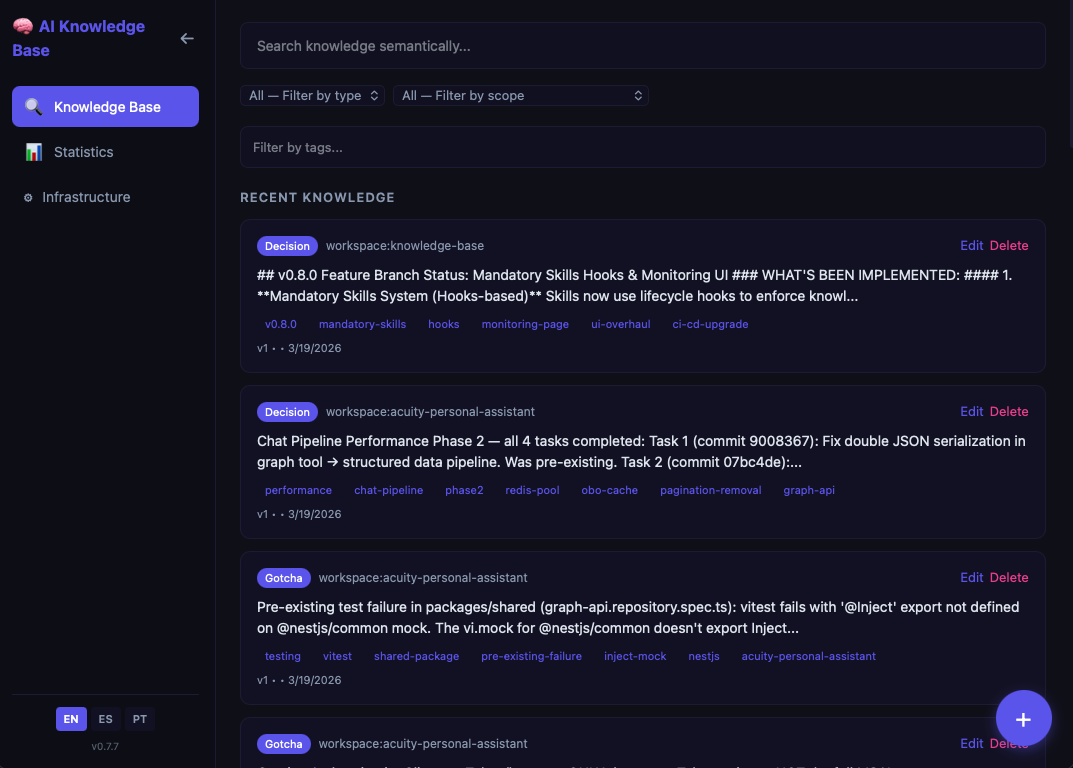
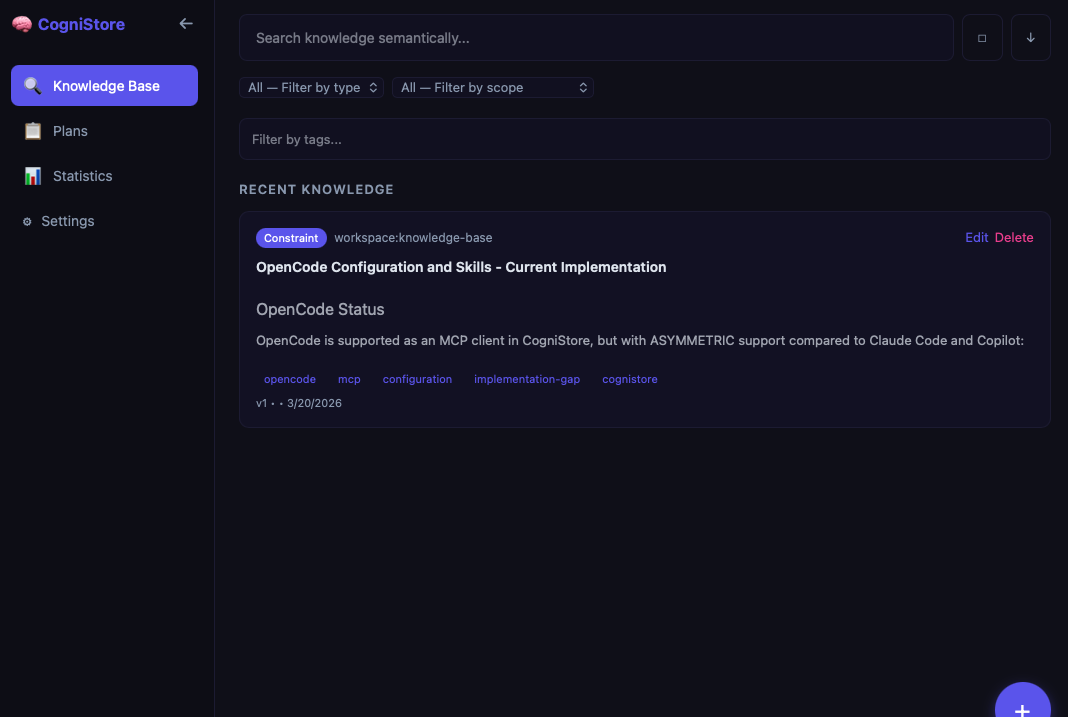
fix: v0.9.12 — full lifecycle plan tracking + OpenCode AGENTS.md (#36)
* fix: v0.9.12 — full lifecycle plan tracking + OpenCode AGENTS.md support

- Skills/hooks now cover entire plan lifecycle (creation + execution tracking),
  not just plan mode events
- OpenCode: new AGENTS.md instruction template with setup/upgrade/uninstall symmetry
- Hook messages shortened to reduce hook fatigue and include execution tracking reminders
- user-prompt-check.sh updated for both Claude Code and Copilot with consistent language
- copilot-instructions.md updated with plan execution tracking emphasis
- Bumped version to 0.9.12

* update screenshot

---------

diff --git a/apps/dashboard/server/index.ts b/apps/dashboard/server/index.ts
@@ -464,6 +464,14 @@ async function start() {
         }
       } catch (e) { console.warn('[CogniStore] Copilot inject error:', e); results.push('Copilot config error'); }
 
+      try {
+        const opencodeTemplatePath = resolve(configTemplateDir, 'opencode-instructions.md');
+        if (existsSync(opencodeTemplatePath)) {
+          await configManager.injectConfig(ConfigManager.OPENCODE_AGENTS_MD, opencodeTemplatePath, 'OpenCode');
+          results.push('OpenCode AGENTS.md injected');
+        }
+      } catch (e) { console.warn('[CogniStore] OpenCode inject error:', e); results.push('OpenCode config error'); }
+
       // Setup MCP configs
       const mcpEntry = {
         type: 'stdio',
@@ -607,6 +615,16 @@ async function start() {
       results.push({ step: 'instructions-copilot', status: 'error', message: e.message });
     }
 
+    try {
+      const opencodeT = resolve(configTemplateDir, 'opencode-instructions.md');
+      if (existsSync(opencodeT)) {
+        await configManager.injectConfig(ConfigManager.OPENCODE_AGENTS_MD, opencodeT, 'OpenCode');
+        results.push({ step: 'instructions-opencode', status: 'success' });
+      }
+    } catch (e: any) {
+      results.push({ step: 'instructions-opencode', status: 'error', message: e.message });
+    }
+
     // Step 3: Re-setup MCP configs
     try {
       const mcpEntry = {
@@ -713,6 +731,12 @@ async function start() {
       results.push({ step: 'instructions-copilot', status: 'success' });
     } catch (e: any) { results.push({ step: 'instructions-copilot', status: 'error', message: e.message }); }
 
+    try {
+      const opencodeTemplate = resolve(configTemplateDir, 'opencode-instructions.md');
+      if (existsSync(opencodeTemplate)) await configManager.injectConfig(ConfigManager.OPENCODE_AGENTS_MD, opencodeTemplate, 'OpenCode');
+      results.push({ step: 'instructions-opencode', status: 'success' });
+    } catch (e: any) { results.push({ step: 'instructions-opencode', status: 'error', message: e.message }); }
+
     // 2. Re-setup MCP configs
     try {
       const mcpEntry = {
@@ -790,6 +814,7 @@ async function start() {
       await step('CLAUDE.md cleaned', () => configManager.removeConfig(ConfigManager.CLAUDE_MD), results, errors);
       await step('Copilot config cleaned', () => configManager.removeConfig(ConfigManager.COPILOT_MD), results, errors);
       await step('Copilot CLI cleaned', () => configManager.removeConfig(ConfigManager.COPILOT_INSTRUCTIONS), results, errors);
+      await step('OpenCode AGENTS.md cleaned', () => configManager.removeConfig(ConfigManager.OPENCODE_AGENTS_MD), results, errors);
 
       // 2. Remove MCP entries
       await step('MCP config cleaned', () => configManager.removeMcpEntry(ConfigManager.MCP_CONFIG, 'cognistore'), results, errors);

diff --git a/packages/config/src/config-manager.ts b/packages/config/src/config-manager.ts
@@ -62,6 +62,12 @@ export class ConfigManager {
     'opencode',
     'opencode.json'
   );
+  static readonly OPENCODE_AGENTS_MD = join(
+    homedir(),
+    '.config',
+    'opencode',
+    'AGENTS.md'
+  );
 
   /**
    * Inject template content into a target file using markers.

diff --git a/PATCH-NOTES.md b/PATCH-NOTES.md
@@ -1,14 +1,23 @@
 # Patch Notes
 
-## v0.9.11
+## v0.9.12
+
+### Features
+- **OpenCode AGENTS.md instructions**: new instruction template injected into `~/.config/opencode/AGENTS.md` during setup — OpenCode now gets the same knowledge-first protocol as Claude Code and Copilot (query → plan → track → capture)
+- **OpenCode setup/upgrade/uninstall symmetry**: AGENTS.md is injected on setup, re-injected on upgrade/redeploy, and cleaned up on uninstall
 
 ### Fixes
+- **Skill/hook rewrite — full lifecycle coverage**: skills and hooks now cover the entire plan lifecycle (creation + execution tracking), not just plan mode events. Previously hooks only fired on EnterPlanMode/ExitPlanMode, missing execution-phase tracking entirely
 - **Claude Code plan mode compatibility**: `pre-plan-file-check.sh` now detects `.claude/plans/` directory paths (plan mode generates random slugs like `sorted-jumping-whistle.md` that the previous filename-only check missed)
 - **Claude Code SKILL.md conflict**: changed approach from "NEVER write local files" to "write local AND ALSO call createPlan()" — works WITH plan mode instead of against it, resolving instruction priority conflict where system-level plan mode instructions overrode skill-level instructions
 - **Claude Code `post-plan-check.sh`**: shortened verbose 8-line message to 1 direct instruction — reduces likelihood of model ignoring the hook after "finishing" planning
-- **Copilot execution tracking**: restructured SKILL.md with Two-Phase Workflow (Planning + Execution) at the top, added execution tracking callout in blockquote, added task tracking reference table
-- **Copilot hook fatigue**: shortened `post-plan-check.sh` and `pre-enter-plan-check.sh` messages (these fire on ALL tool uses without matchers); `post-plan-check` now includes execution tracking reminder instead of only planning reminder
-- **`claude-code-instructions.md` template**: updated to match new "write local AND ALSO createPlan()" language
+- **Copilot execution tracking**: restructured SKILL.md with Two-Phase Workflow (Planning + Execution) at the top, added execution tracking callout and task tracking reference table
+- **Copilot hook fatigue**: shortened hook messages; `post-plan-check` now includes execution tracking reminder instead of only planning reminder
+- **`user-prompt-check.sh` (both agents)**: updated to include execution tracking reminders on every user message, not just plan creation
+- **Instruction templates**: claude-code-instructions.md and copilot-instructions.md updated with consistent plan tracking language
+- **Renamed "AI Knowledge" to "CogniStore"**: all SKILL.md titles now use "CogniStore Plan" instead of "AI Knowledge Plan"
+
+## v0.9.11
 
 ## v0.9.5
 

diff --git a/apps/dashboard/templates/configs/opencode-instructions.md b/apps/dashboard/templates/configs/opencode-instructions.md
@@ -4,15 +4,7 @@
 > **BLOCKING REQUIREMENT** — You MUST follow these rules on EVERY task. No exceptions.
 > Tools are provided by the `cognistore` MCP server.
 
-### Mandatory Skills — ALWAYS Invoke
-
-You have 3 skills that MUST be invoked automatically. These are NOT optional:
-
-1. **`cognistore-query`** — MUST be your **FIRST action** in every task, before reading files, writing code, or making decisions. No exceptions.
-2. **`cognistore-capture`** — MUST be your **LAST action** after completing any task that produced new knowledge (fixes, decisions, patterns, constraints).
-3. **`cognistore-plan`** — MUST be invoked ANY time you plan work. ALL plans MUST go through `createPlan()`. During execution, you MUST track EVERY task via `updatePlanTask()` — mark `in_progress` BEFORE starting, `completed` AFTER finishing. NEVER skip task tracking.
-
-### CHECKPOINT 1: Query First (cognistore-query)
+### CHECKPOINT 1: Query First
 
 **STOP. Before you read any file, write any code, or make any decision:**
 
@@ -24,7 +16,7 @@ mcp__cognistore__getKnowledge(query: "<describe the task or problem>")
 - Similarity 0.30–0.50: **Review** — combine with fresh analysis
 - No results or < 0.30: Proceed with full analysis
 
-### CHECKPOINT 2: Capture Last (cognistore-capture)
+### CHECKPOINT 2: Capture Last
 
 **Before finishing, capture what you learned:**
 
@@ -40,7 +32,7 @@ mcp__cognistore__addKnowledge({
 
 If an existing entry covers the topic, **UPDATE it** instead of creating a duplicate.
 
-### CHECKPOINT 3: Plan via createPlan (cognistore-plan)
+### CHECKPOINT 3: Plan via createPlan
 
 **ALL plans MUST be persisted in the knowledge base:**
 

diff --git a/documentation/setup-uninstall.md b/documentation/setup-uninstall.md
@@ -78,12 +78,13 @@ The configure step performs multiple actions:
 
 1. **Inject CLAUDE.md markers** — Adds knowledge-first protocol instructions
 2. **Inject copilot-instructions.md markers** — Same for Copilot
-3. **Add MCP entries** — Adds `cognistore` to all client configs:
+3. **Inject OpenCode AGENTS.md markers** — Same for OpenCode (`~/.config/opencode/AGENTS.md`)
+4. **Add MCP entries** — Adds `cognistore` to all client configs:
    - `~/.claude/mcp-config.json`
    - `~/.claude.json`
    - `~/.copilot/mcp-config.json`
    - `~/.config/opencode/opencode.json`
-4. **Copy skills** — Installs AI skills for Claude Code (query, capture, plan) and Copilot (query, capture, plan)
+5. **Copy skills** — Installs AI skills for Claude Code (query, capture, plan) and Copilot (query, capture, plan)
 
 ---
 

diff --git a/CLAUDE.md b/CLAUDE.md
@@ -26,6 +26,7 @@ The Tauri app's setup wizard creates resources; the uninstall button must remove
 | Inject `~/.claude/CLAUDE.md` markers | Remove markers via ConfigManager |
 | Inject `~/.github/copilot-instructions.md` markers | Remove markers via ConfigManager |
 | Inject `~/.copilot/copilot-instructions.md` markers | Remove markers via ConfigManager |
+| Inject `~/.config/opencode/AGENTS.md` markers | Remove markers via ConfigManager |
 | Add `cognistore` to `~/.claude/mcp-config.json` | Remove entry via ConfigManager |
 | Add `cognistore` to `~/.claude.json` | Remove entry via ConfigManager |
 | Add `cognistore` to `~/.copilot/mcp-config.json` | Remove entry via ConfigManager |

diff --git a/documentation/config-injection.md b/documentation/config-injection.md
@@ -12,7 +12,7 @@ The `@cognistore/config` package manages automatic configuration of AI clients. 
 |--------|-----------|-------------------|-----------------|
 | Claude Code | `~/.claude/mcp-config.json` | `~/.claude/CLAUDE.md` | `~/.claude/skills/cognistore-*/` |
 | GitHub Copilot | `~/.copilot/mcp-config.json` | `~/.github/copilot-instructions.md` | `~/.copilot/skills/cognistore-*.md` |
-| OpenCode | `~/.config/opencode/opencode.json` | — | — |
+| OpenCode | `~/.config/opencode/opencode.json` | `~/.config/opencode/AGENTS.md` | — |
 
 ## Marker-Based Injection
 
